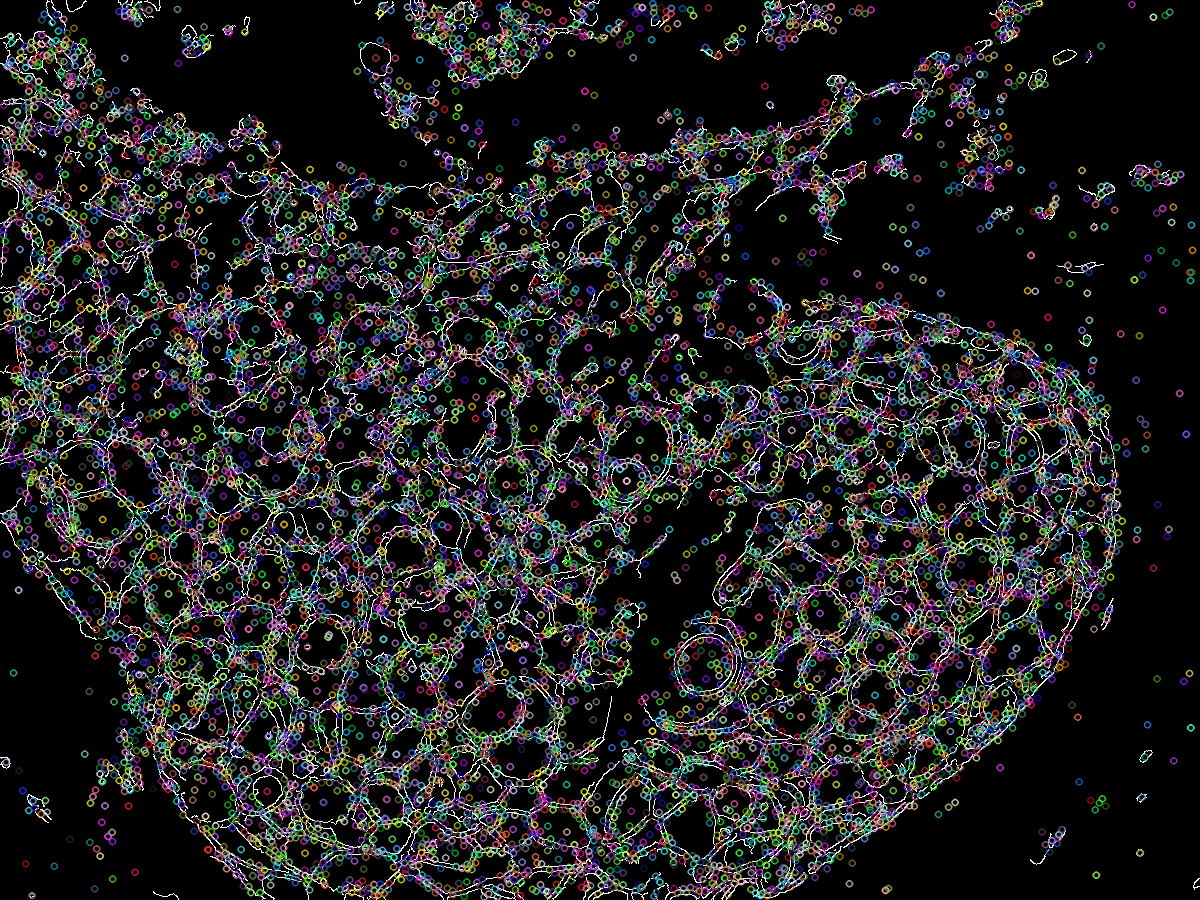
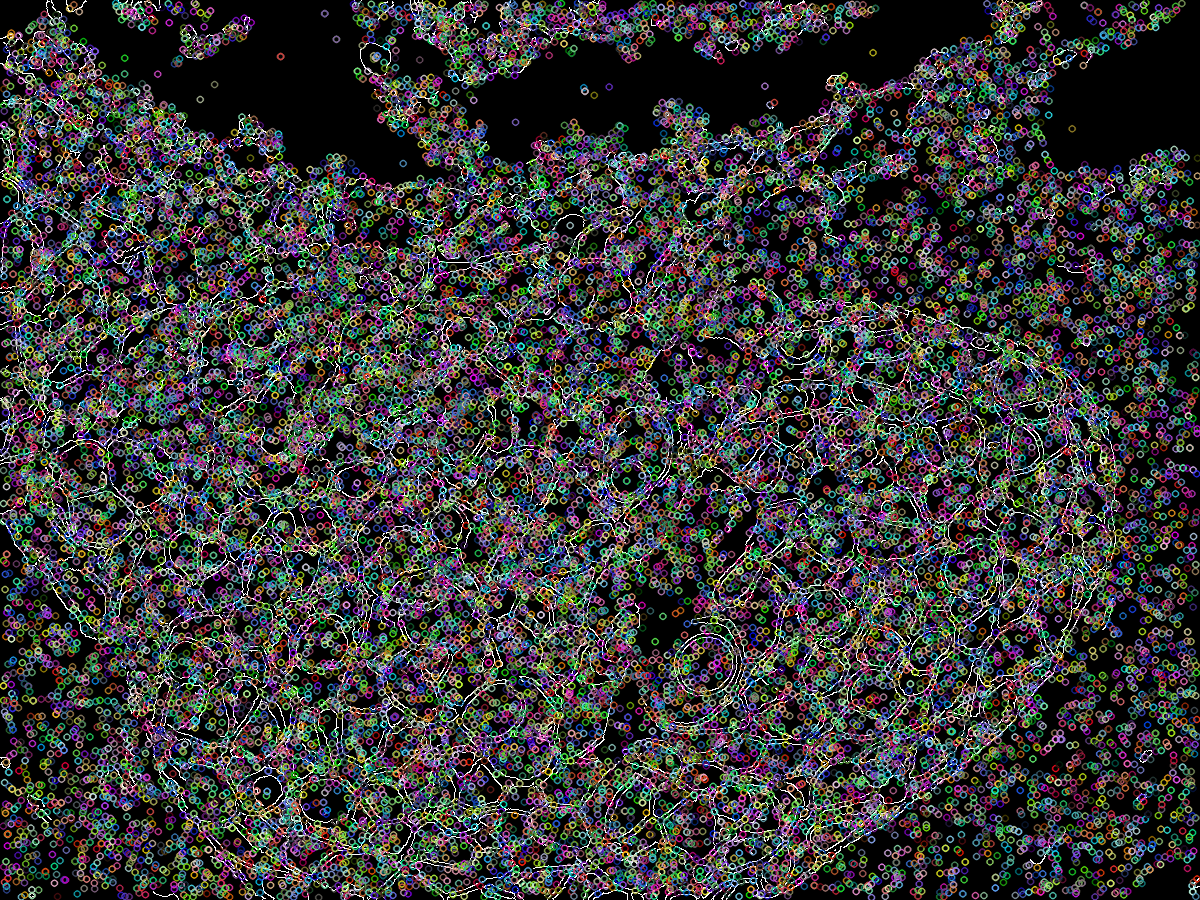
Working cycle detection

diff --git a/src/graphs/TissueGraph.java b/src/graphs/TissueGraph.java
@@ -5,10 +5,7 @@ import org.jgrapht.alg.cycle.PatonCycleBase;
 import org.jgrapht.graph.DefaultEdge;
 import org.jgrapht.graph.SimpleGraph;
 
-import java.util.ArrayList;
-import java.util.HashSet;
-import java.util.List;
-import java.util.Set;
+import java.util.*;
 
 public class TissueGraph {
     public static Graph<Point, DefaultEdge> generateRNGraph(List<Point> list) {
@@ -43,6 +40,7 @@ public class TissueGraph {
         return graph;
     }
 
+    @SuppressWarnings("unused")
     public static List<List<Point>> getCyclesPaton(Graph<Point, DefaultEdge> graph) {
         Set<List<Point>> allCycles = new HashSet<>();
         PatonCycleBase<Point, DefaultEdge> cycleBase = new PatonCycleBase<>(graph);
@@ -71,10 +69,73 @@ public class TissueGraph {
         });
 
         List<List<Point>> cycleList = new ArrayList<>(allCycles.stream().toList());
-        cycleList.sort((o1, o2) -> o1.size() - o2.size());
+        cycleList.sort(Comparator.comparingInt(List::size));
 
         return cycleList;
     }
 
+    public static List<List<Point>> getCycles(Graph<Point, DefaultEdge> graph) {
+        Set<List<Point>> allCycles = new HashSet<>();
+        List<DefaultEdge> edges = new ArrayList<>(graph.edgeSet());
+        Map<Point, List<Point>> clockwiseGraph = new HashMap<>();
 
+        graph.vertexSet().forEach(point -> {
+            clockwiseGraph.put(point, new ArrayList<>());
+            graph.outgoingEdgesOf(point).forEach(defaultEdge -> {
+                if (graph.getEdgeSource(defaultEdge).equals(point)) {
+                    clockwiseGraph.get(point).add(graph.getEdgeTarget(defaultEdge));
+                } else {
+                    clockwiseGraph.get(point).add(graph.getEdgeSource(defaultEdge));
+                }
+            });
+            clockwiseGraph.get(point).sort(new ClockwiseComparator(point));
+        });
+
+        for (DefaultEdge edge : edges) {
+            allCycles.add(getClockwiseCycle(clockwiseGraph, graph.getEdgeSource(edge), graph.getEdgeTarget(edge)));
+            allCycles.add(getClockwiseCycle(clockwiseGraph, graph.getEdgeTarget(edge), graph.getEdgeSource(edge)));
+        }
+
+        // Remove cycles with less than 3 points
+        allCycles.removeIf(Objects::isNull);
+        allCycles.removeIf(cycle -> cycle.size() < 3);
+
+        // Remove cycles permutations
+        List<List<Point>> allCyclesList = new ArrayList<>(allCycles);
+        for (int i = 0; i < allCyclesList.size(); i++) {
+            for (int j = allCyclesList.size() - 1; j >= 0; j--) {
+                if (i != j && new HashSet<>(allCyclesList.get(i)).containsAll(allCyclesList.get(j))) {
+                    allCyclesList.remove(j);
+                }
+            }
+        }
+
+        return allCyclesList;
+    }
+
+    private static List<Point> getClockwiseCycle(Map<Point, List<Point>> graph, Point start, Point next) {
+        List<Point> cycle = new ArrayList<>();
+        Set<Point> visited = new HashSet<>();
+
+        cycle.add(start);
+        visited.add(start);
+
+        cycle.add(next);
+        visited.add(next);
+
+        Point prev = start;
+        Point current = next;
+
+        while (true) {
+            int pos = (graph.get(current).indexOf(prev) + 1) % graph.get(current).size();
+            prev = current;
+            current = graph.get(current).get(pos);
+            if (current.equals(start)) break;
+            if (visited.contains(current)) return null;
+            cycle.add(current);
+            visited.add(current);
+        }
+
+        return cycle;
+    }
 }

diff --git a/src/graphs/ClockwiseComparator.java b/src/graphs/ClockwiseComparator.java
@@ -1,0 +1,19 @@
+package graphs;
+
+import java.util.Comparator;
+
+public class ClockwiseComparator implements Comparator<Point> {
+    private final Point center;
+
+    public ClockwiseComparator(Point center) {
+        this.center = center;
+    }
+
+    @Override
+    public int compare(Point p1, Point p2) {
+        double angle1 = Math.atan2(p1.y() - center.y(), p1.x() - center.x());
+        double angle2 = Math.atan2(p2.y() - center.y(), p2.x() - center.x());
+
+        return Double.compare(angle1, angle2);
+    }
+}

diff --git a/src/imageProcessing/ImageProcessing.java b/src/imageProcessing/ImageProcessing.java
@@ -45,7 +45,7 @@ public class ImageProcessing {
         // ------------------------ KEYPOINTS DETECTION ------------------------
 
         // Create a detector
-        Feature2D detector = SIFT.create(0, 3, 0.04, 10, 1.6);
+        Feature2D detector = SIFT.create(0, 3, 0.01, 10, 1.6);
 
         // Detect keypoints in the image
         MatOfKeyPoint allKeypoints = new MatOfKeyPoint();

diff --git a/src/view/GUI.java b/src/view/GUI.java
@@ -182,7 +182,7 @@ public class GUI extends JFrame {
     private void generateGraph() {
         this.vertices = ImageProcessing.generateKeypointsList();
         this.graph = TissueGraph.generateRNGraph(vertices);
-        this.cycles = TissueGraph.getCyclesPaton(graph);
+        this.cycles = TissueGraph.getCycles(graph);
     }
 
     private void convertCyclesToPolygons() {
